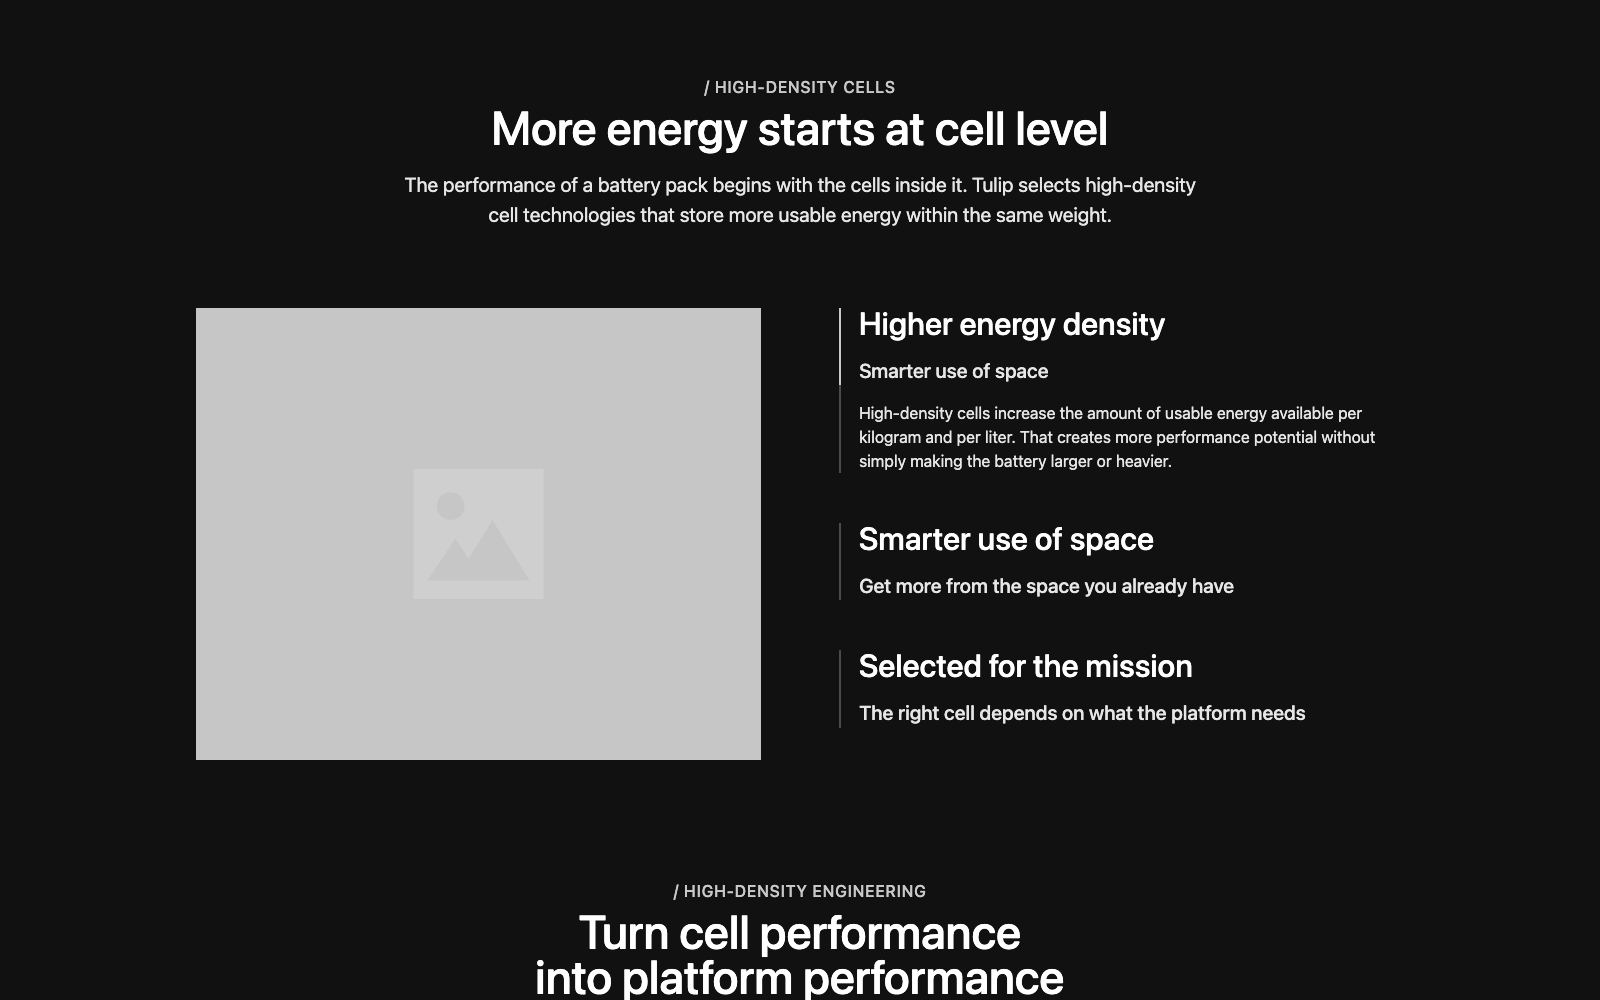
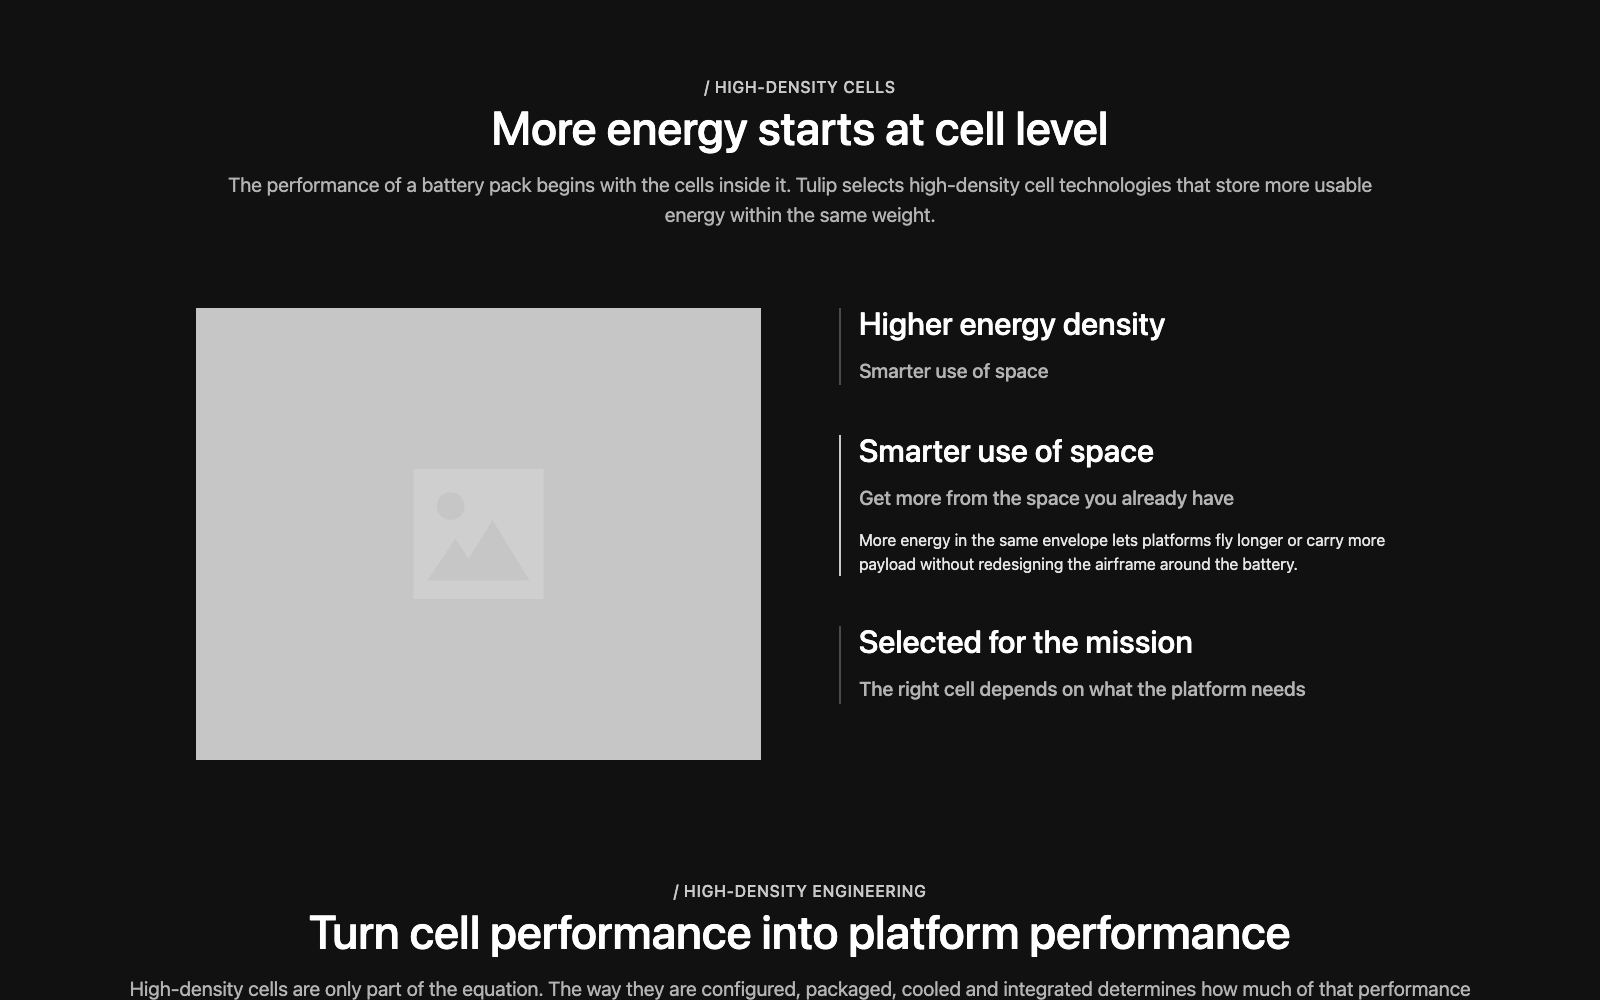
fix: refine HD Cells, proof metrics and Hero content sizing

diff --git a/CHANGELOG.md b/CHANGELOG.md
@@ -30,6 +30,9 @@
 - Use regular `400` weight for Process Story Trinity numbered markers through a component-owned font-weight token.
 - Use a 3:2 text-to-media grid for Hero Allentown on desktop; below 50rem, both stacked blocks and their reading width fill the available container.
 - Swap Primary and Secondary colors on hover and keyboard focus. Clear text takes its icon's theme accent; Clear base uses the accent for both text and icon.
+- Remove HD Cells header width caps and use `primary-light` for its intro descriptions and cell subtitles through component tokens.
+- Reduce Proof Metrics gaps to `space-m`; keep values on one line and allow whole metric items to move to the next row instead.
+- Let Hero Allentown intro headings and descriptions fill the text column on desktop as well as mobile.
 
 ### Fixed
 
